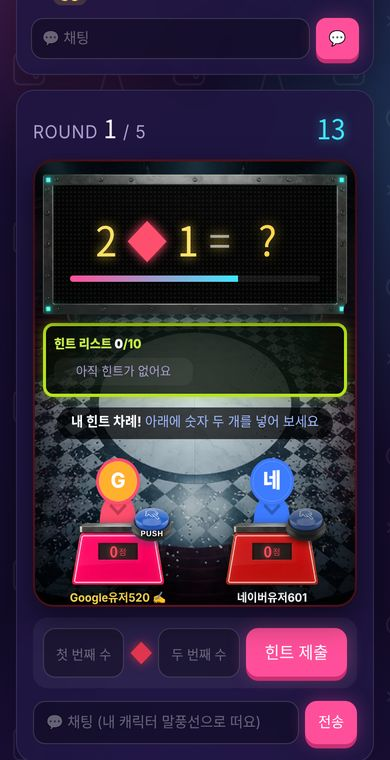
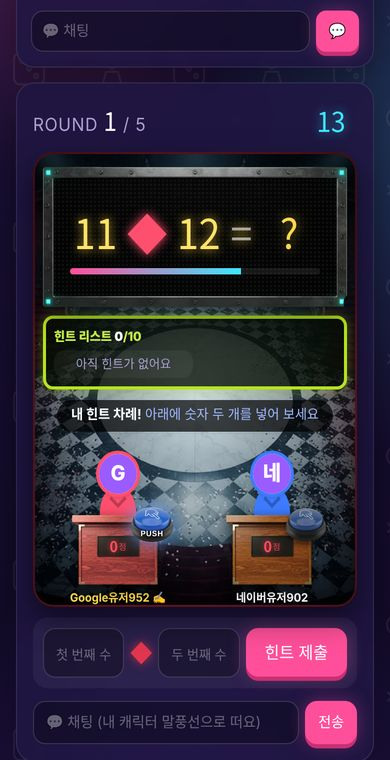
미스터리 사인: 나무 단상 그림
Claude-Session: https://claude.ai/code/session_018kcaK1YQGkv4UBC623yDa1

diff --git a/css/style.css b/css/style.css
@@ -3523,3 +3523,11 @@ button.dr-seat { cursor: pointer; } button.dr-seat:hover .sit-face { box-shadow:
 .ms-pscore { left: 22%; top: 30%; width: 56%; height: 36%; border-radius: 3px; background: #0c0805; box-shadow: inset 0 0 0 2px #2a170a, inset 0 0 8px rgba(0, 0, 0, .8); }
 .ms-p.me .ms-podium { background: linear-gradient(180deg, rgba(255, 140, 200, .25), transparent 40%), repeating-linear-gradient(90deg, rgba(0, 0, 0, .12) 0 2px, transparent 2px 13px), linear-gradient(180deg, #9a5f32, #6e3f1d); }
 .ms-p.win .ms-podium { box-shadow: inset 0 0 0 2px #ffd84d, 0 0 16px rgba(255, 216, 77, .7); }
+/* 미스터리 사인: 나무 단상 그림 */
+.ms-podium { aspect-ratio: 600 / 430; background: none !important; box-shadow: none; border-radius: 0; filter: drop-shadow(0 4px 6px rgba(0, 0, 0, .6)); }
+.ms-podium::before { display: none; }
+.ms-podium img { display: block; }
+.ms-pscore { left: 27.3%; top: 29.5%; width: 45.3%; height: 29.5%; background: none; box-shadow: none; }
+.ms-p.me .ms-podium img { filter: sepia(.3) hue-rotate(-30deg) saturate(1.4); }
+.ms-p.win .ms-podium { filter: drop-shadow(0 0 10px rgba(255, 216, 77, .9)); }
+.ms-p.win .ms-podium img { filter: none; }

diff --git a/js/config.js b/js/config.js
@@ -1,6 +1,6 @@
 // 앱 이름
 export const APP_NAME = 'O게임';
-export const APP_VERSION = 'v10.62';
+export const APP_VERSION = 'v10.63';
 
 // Firebase 설정 — Firebase 콘솔 > 프로젝트 설정 > 내 앱 에서 복사한 값
 // apiKey를 비우면 "테스트 모드"로 동작합니다
